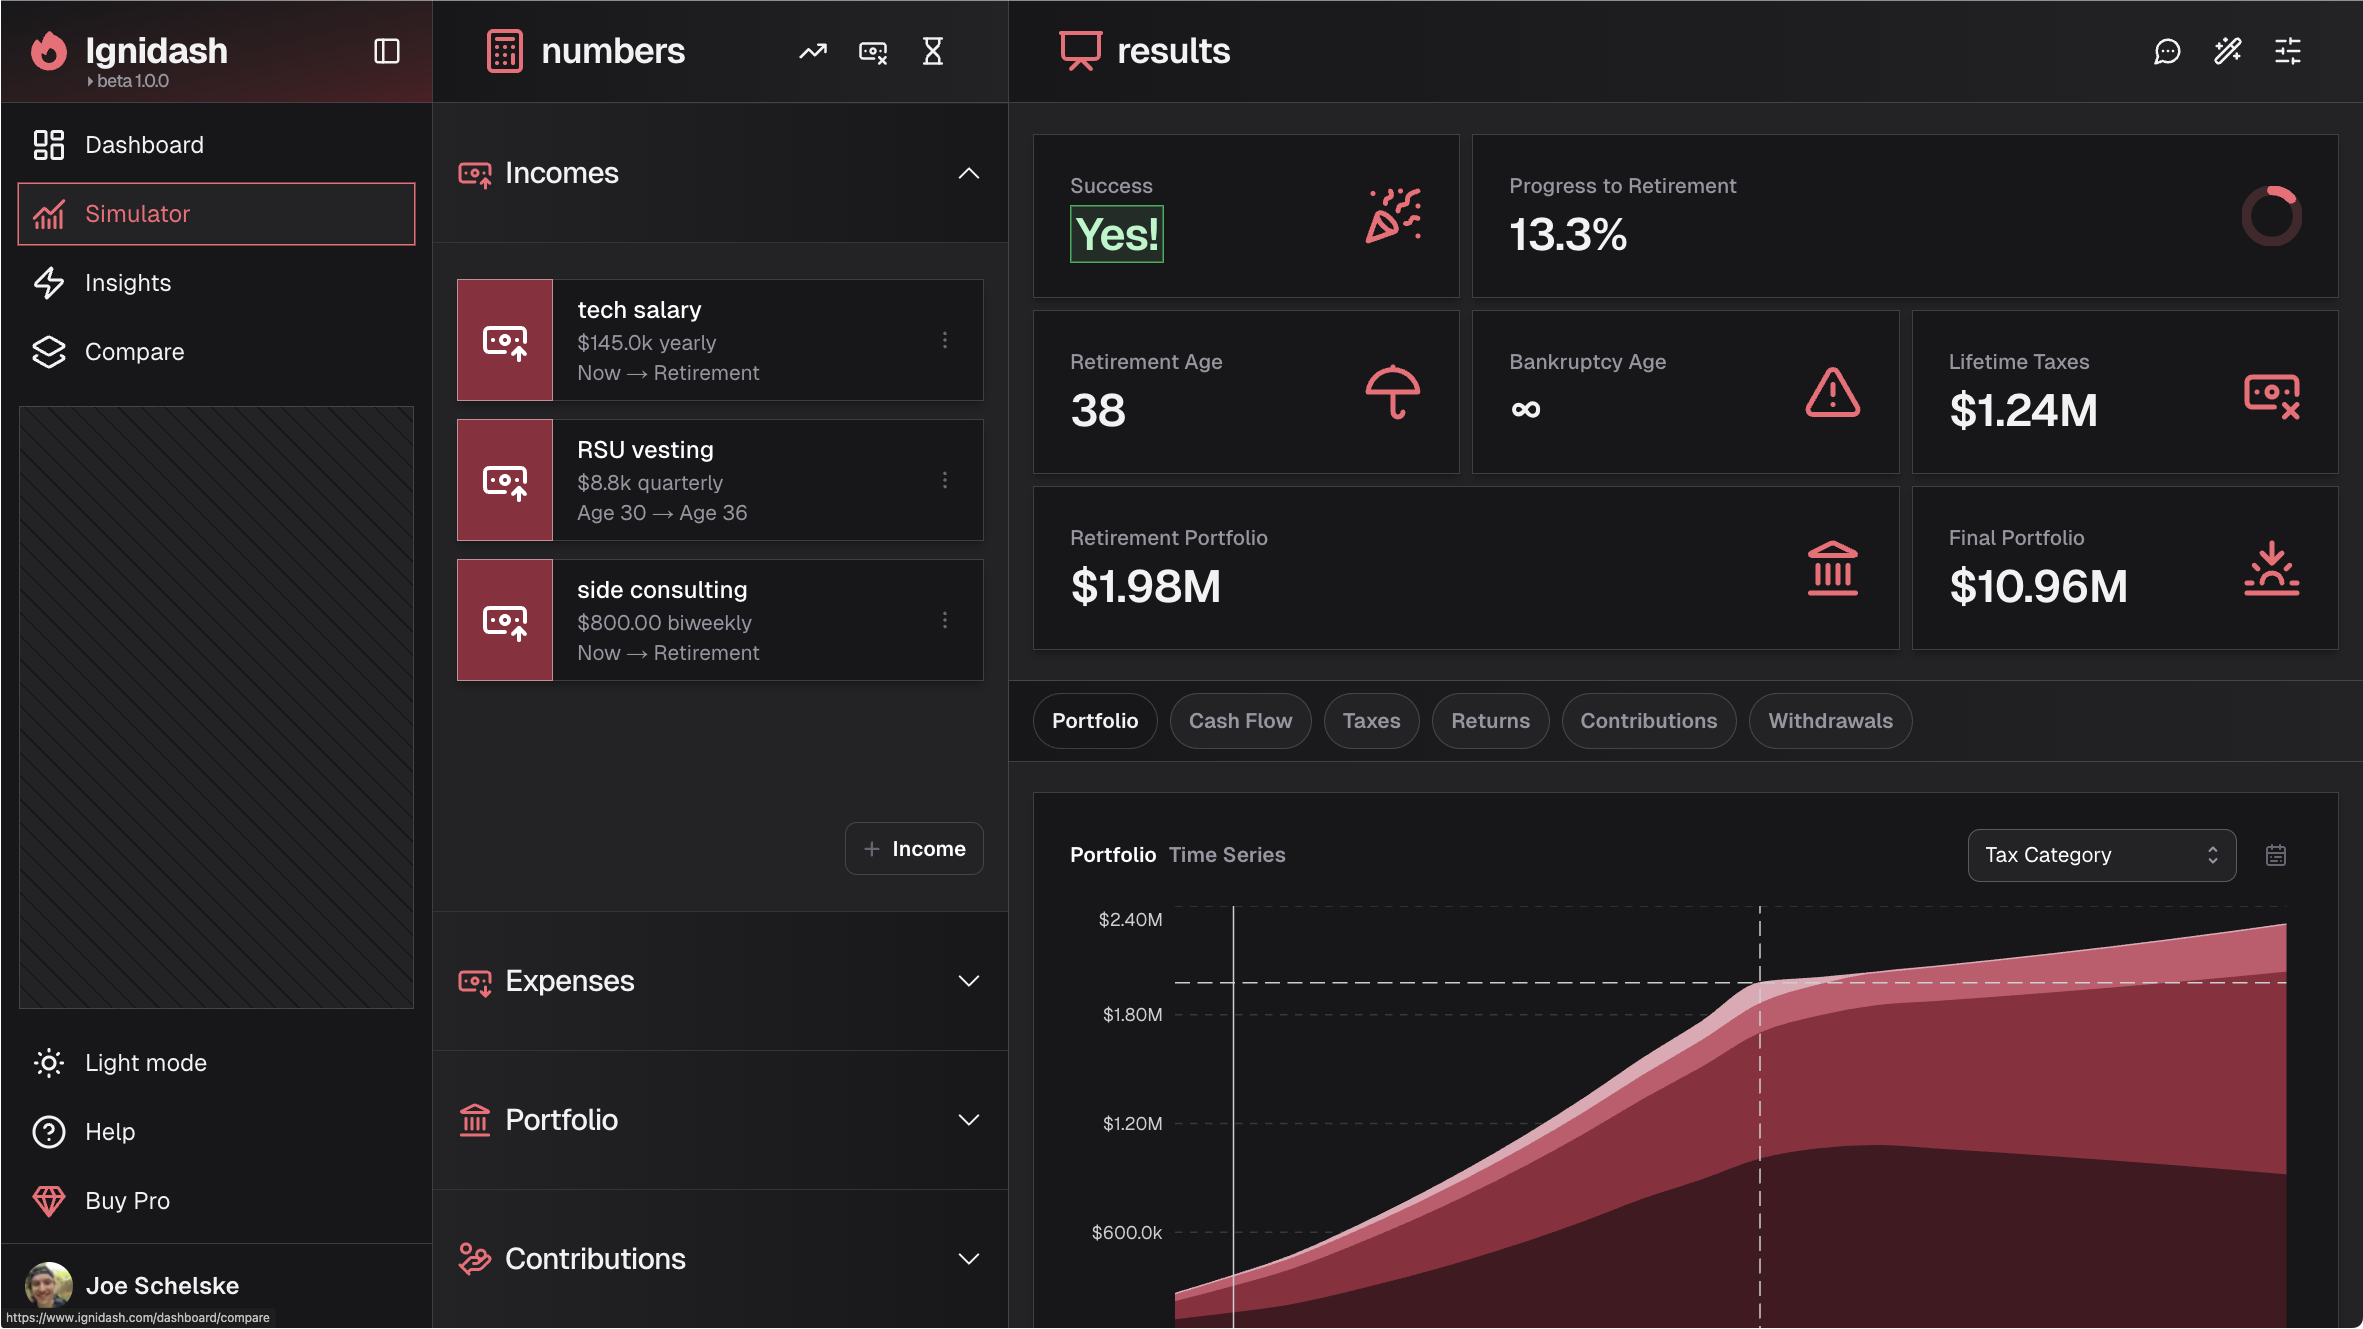
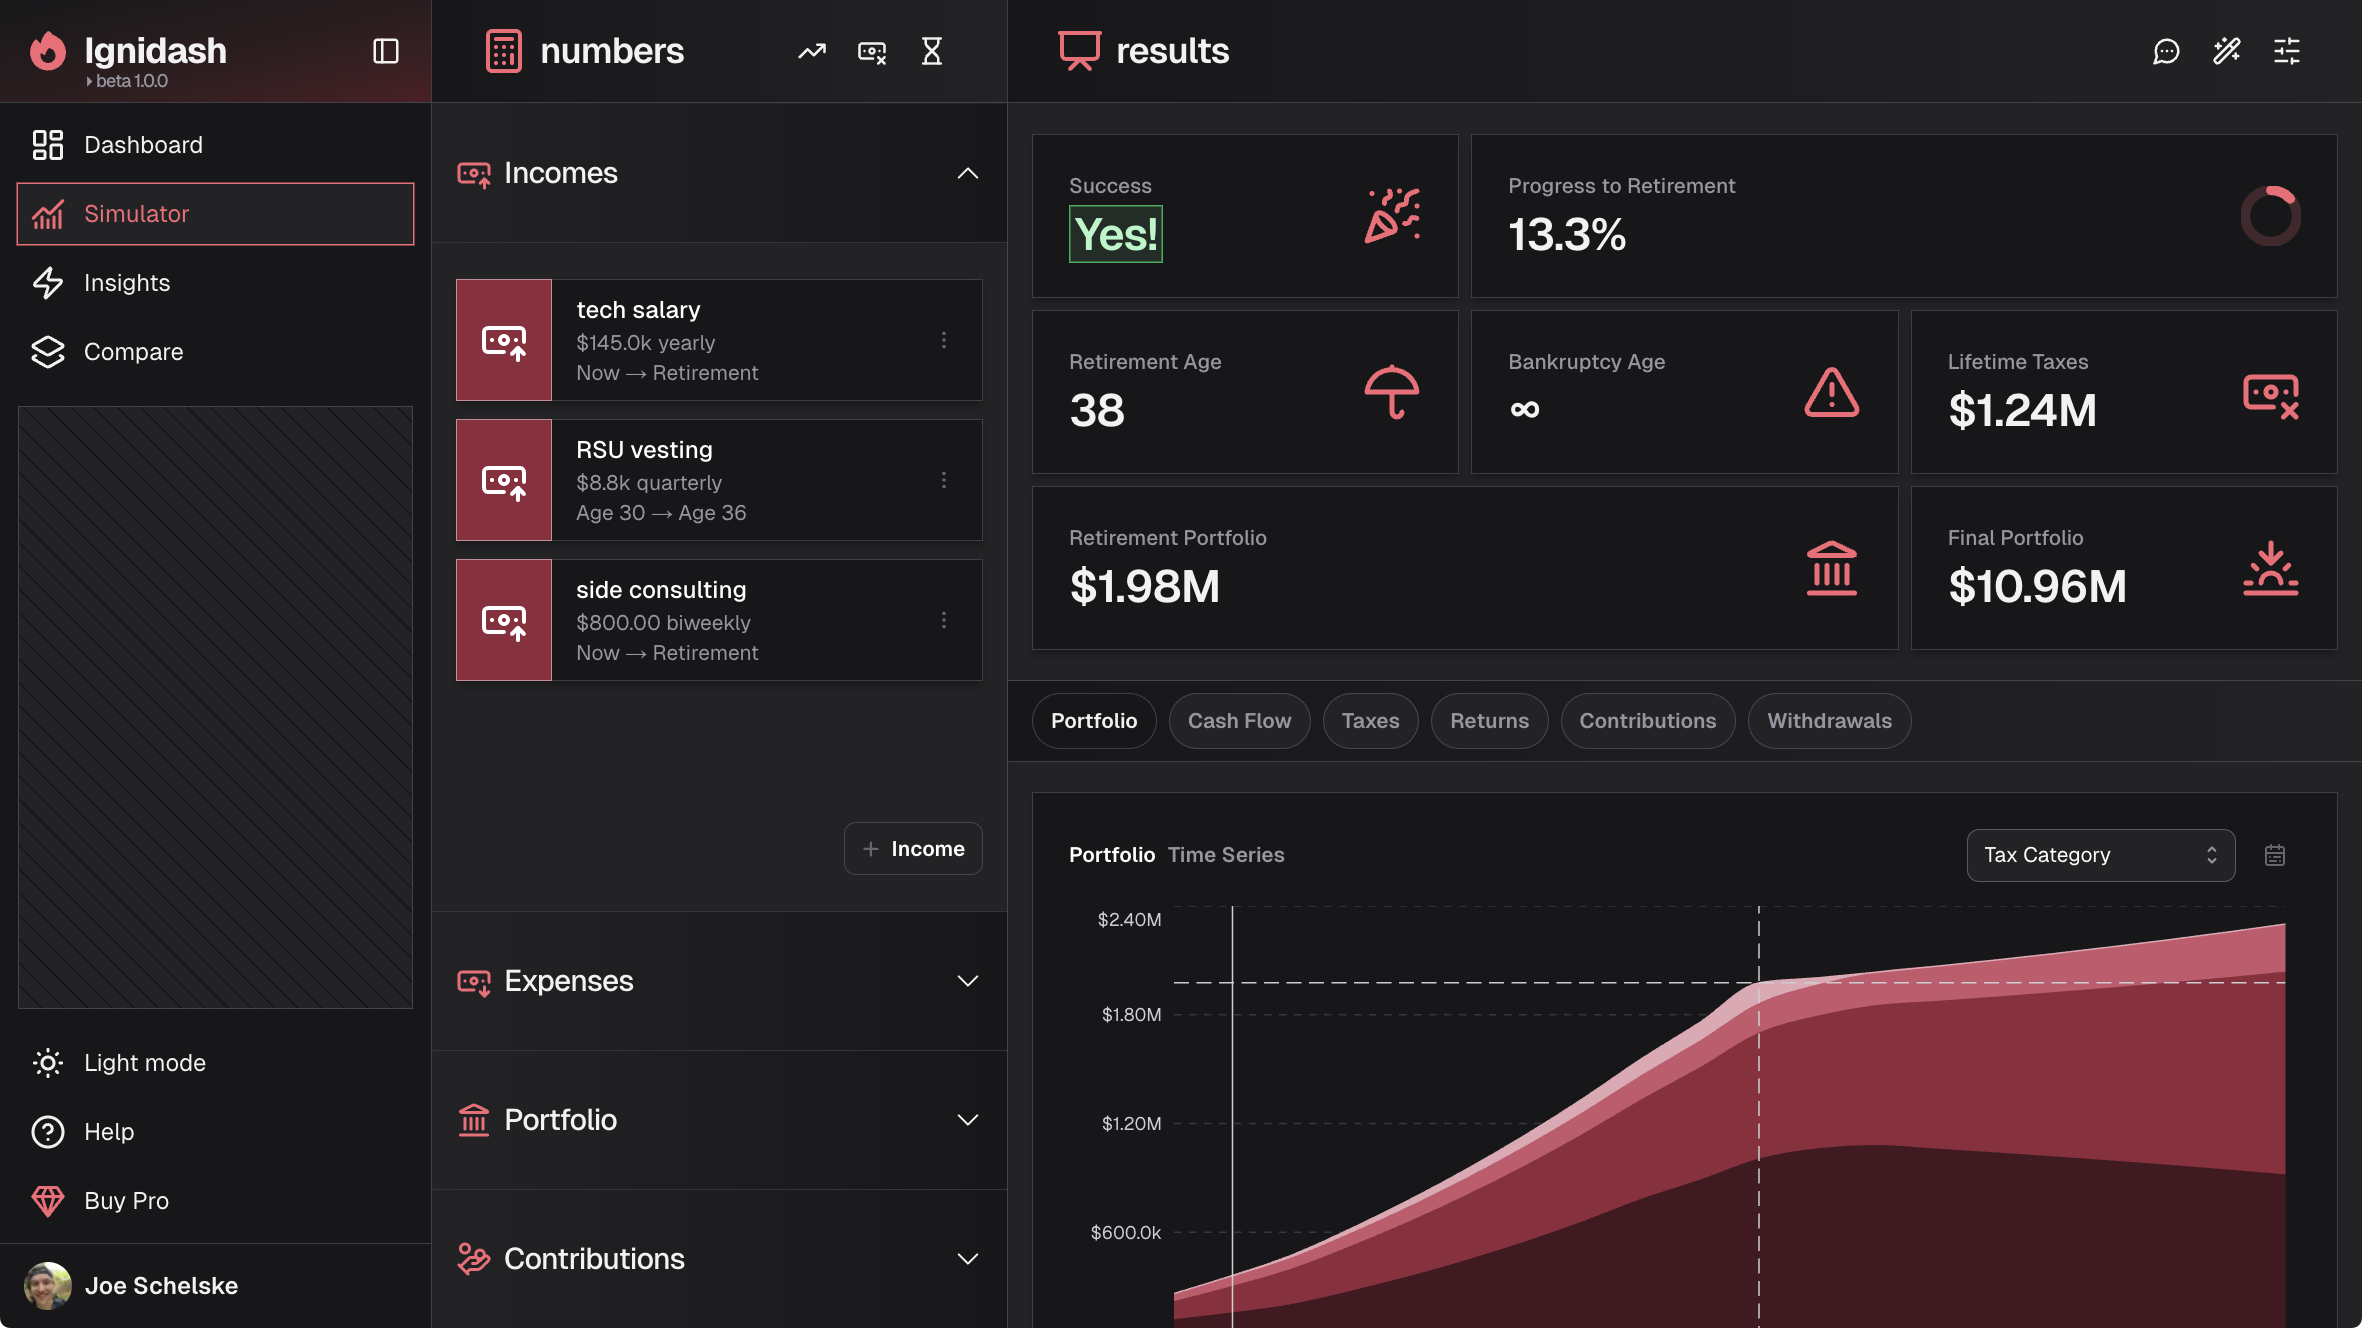
simulator dark screenshot

diff --git a/src/app/(marketing)/components/hero-section.tsx b/src/app/(marketing)/components/hero-section.tsx
@@ -55,7 +55,7 @@ export default function HeroSection() {
             />
             <Image
               alt="App screenshot"
-              src="/most-zoomed-sim-dark.webp"
+              src="/screenshots/simulator-dark.webp"
               width={2362}
               height={1328}
               className="ring-border/50 rounded-md bg-white/5 shadow-2xl ring-1 not-dark:hidden"
